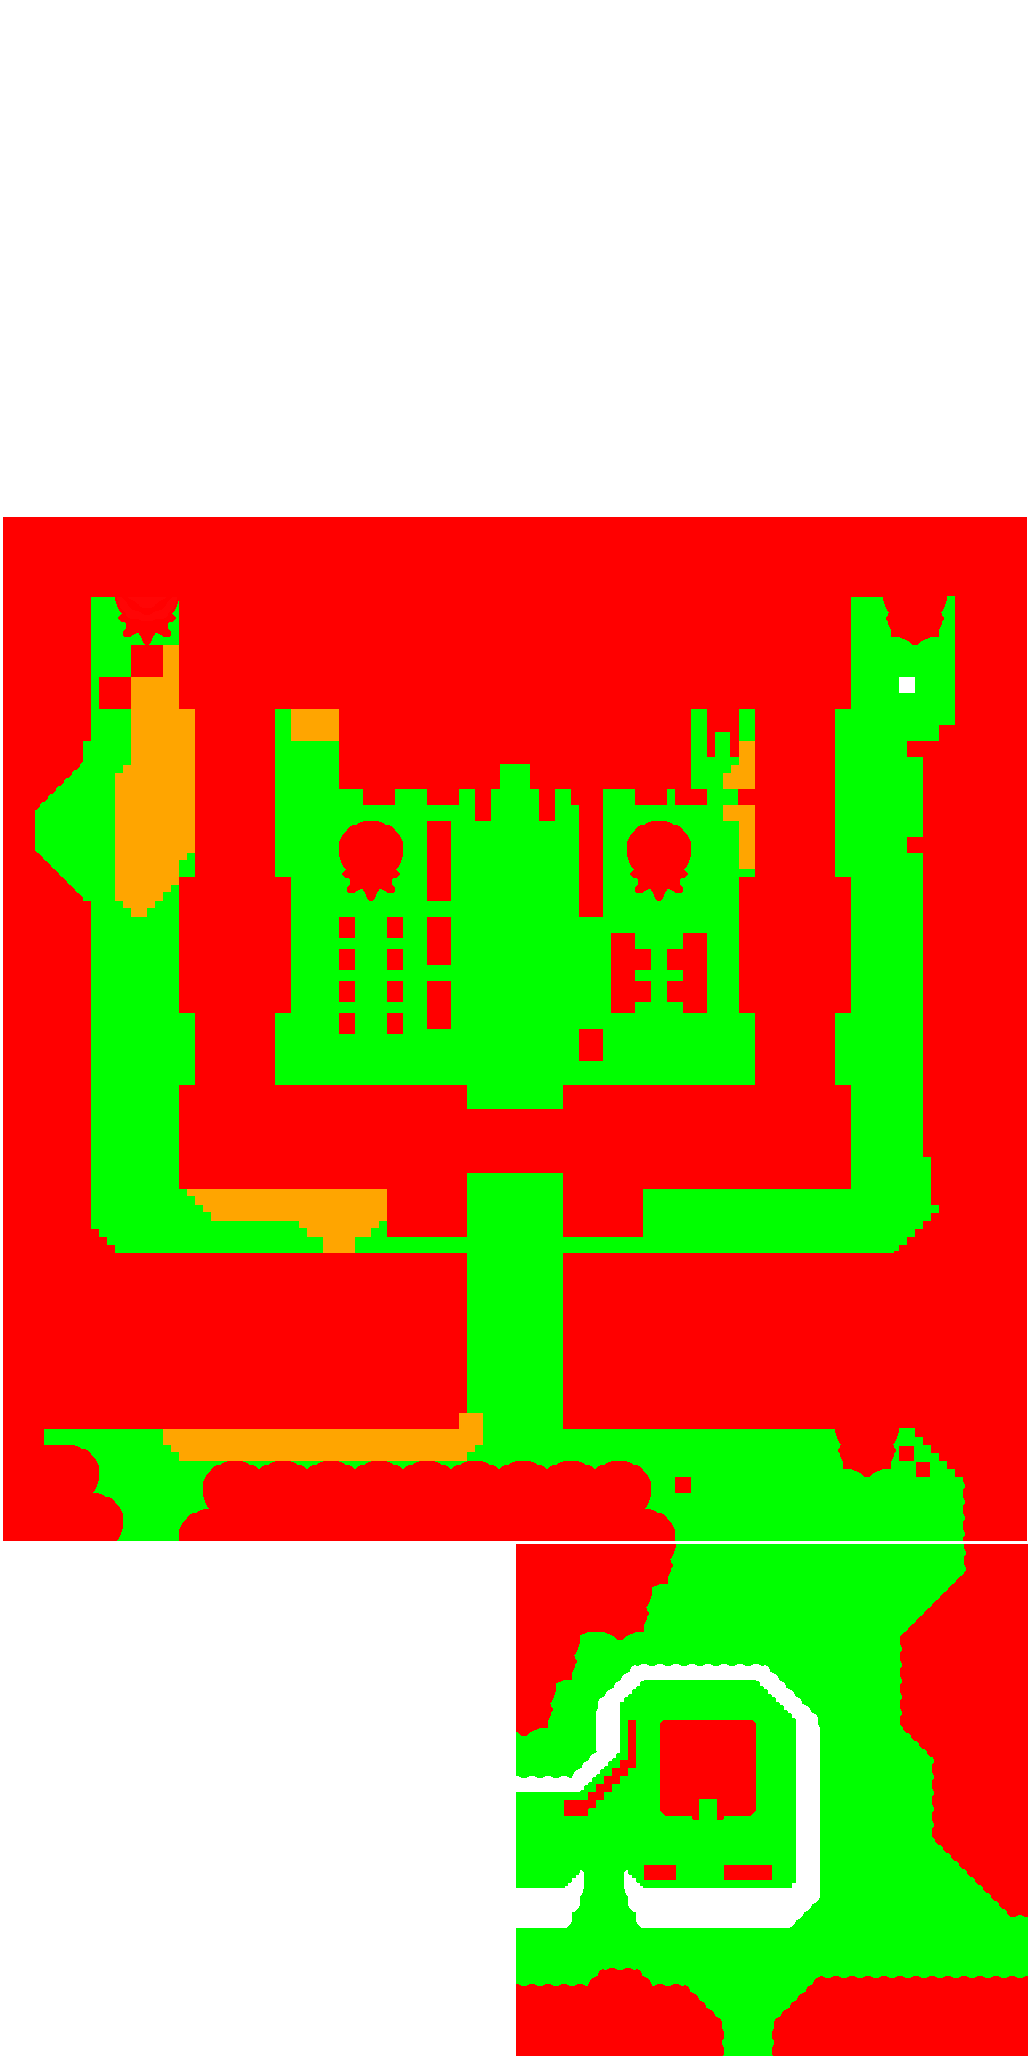
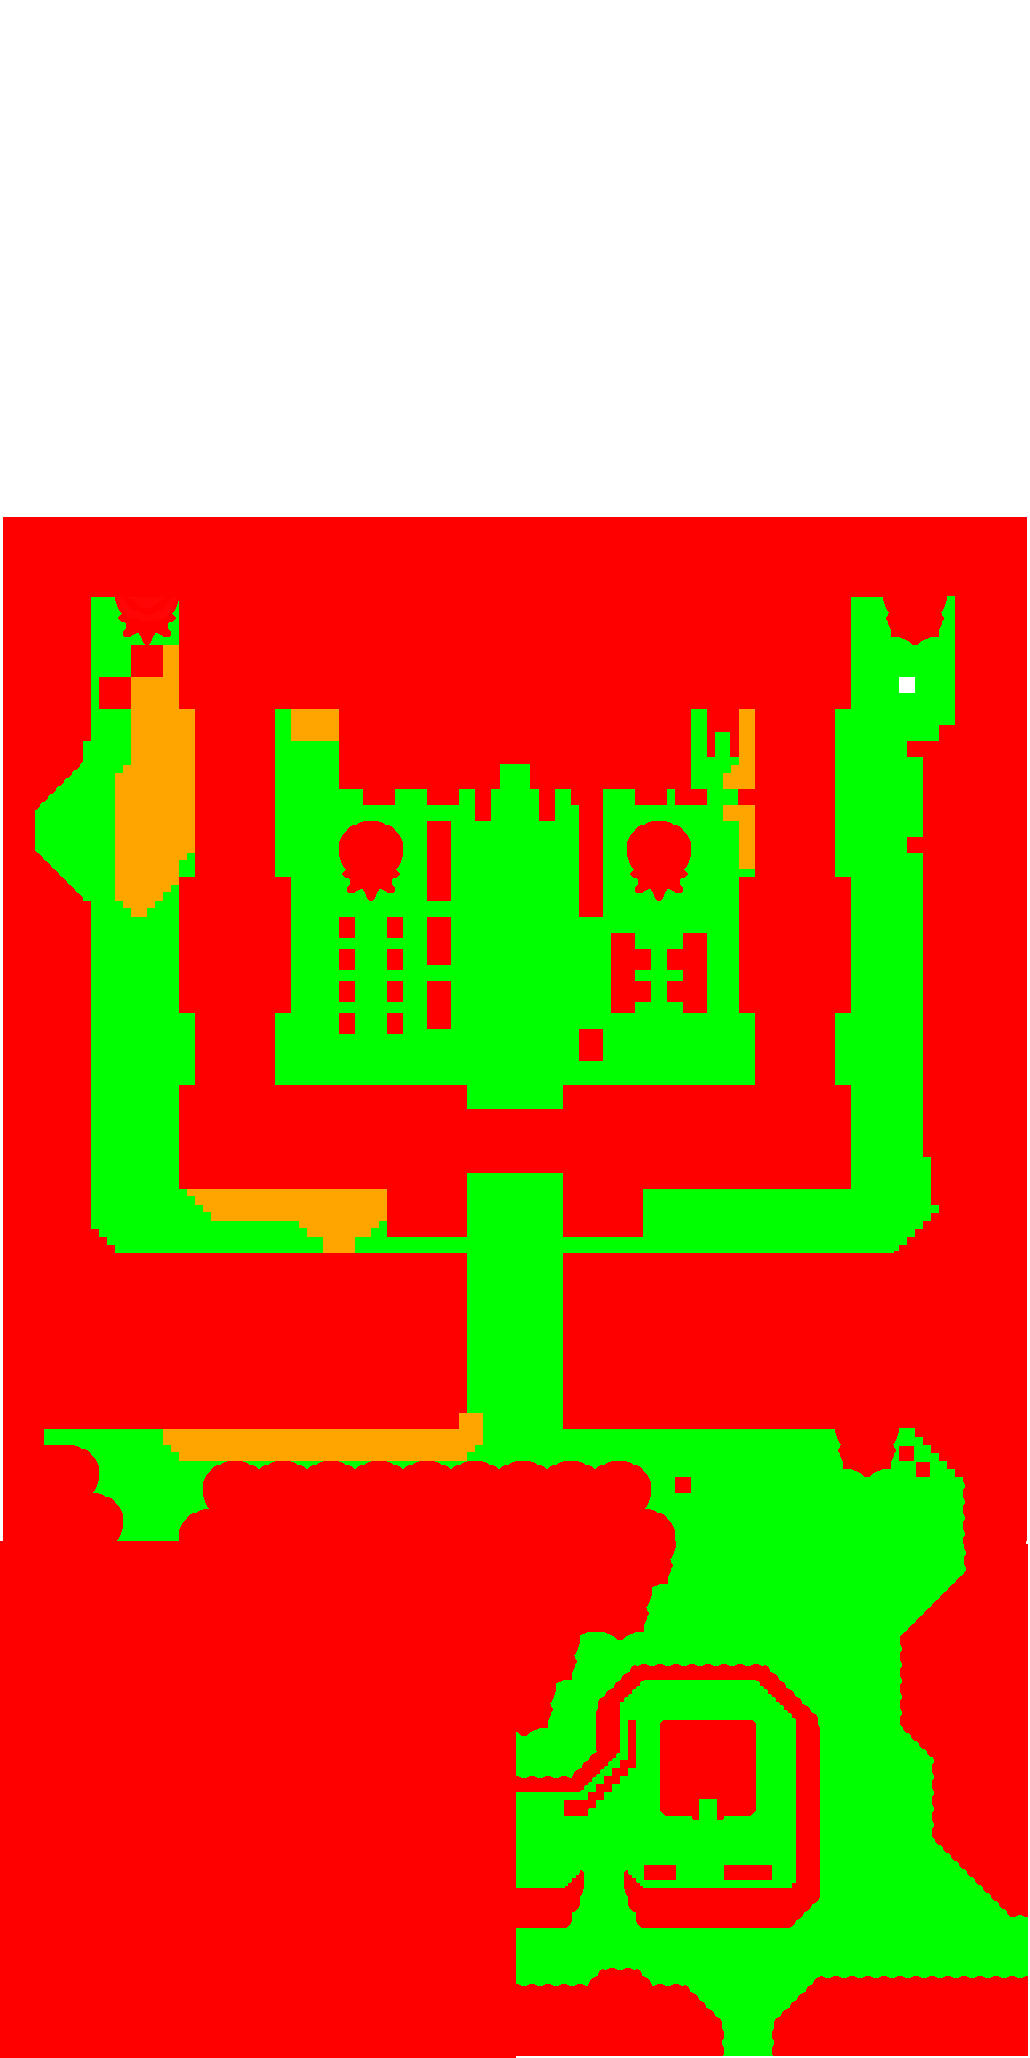
Added monsters entities

Changed region(s): [[0.0, 0.7464, 0.8078, 1.0], [0.7146, 0.3421, 0.7456, 0.3732]]

diff --git a/scenes/test/lib/init_mob.c b/scenes/test/lib/init_mob.c
@@ -1,0 +1,48 @@
+#include "init_mob.h"
+
+#include "../state.h"
+#include "../decorator.h"
+
+#include "../../../generated_code/origins.h"
+#include "../../../generated_code/rects.h"
+
+#include "../../../mobs/mob.h"
+
+#include "../../../include/sfml_helpers.h"
+#include "../../../include/debug.h"
+
+#include "../../../scenes/lib/animation.h"
+
+const char MONSTER_PATH[] = "assets/monster.png";
+
+sfVector2f mob_rel_position(sfVector2f map_pos, sfVector2f abs_pos, float zoom)
+{
+    return (vec_create(zoom * abs_pos.x - map_pos.x, zoom * abs_pos.y - map_pos.y));
+}
+
+int DECORATE(mobs_init)(DECORATE(state) *state)
+{
+    state->my_map.m.mobs = overworld_mobs;
+    mob *mobs = state->my_map.m.mobs;
+
+    for (int i = 0; mobs[i].type != NUL_MOB; i++) {
+        sfVector2f rel = mob_rel_position(state->my_map.m.pos, mobs[i].abs_pos, state->zoom_level);
+        m_animation_init(&mobs[i].ani, state->zoom_level, MONSTER_PATH, rel, monster_bk_down_idle, vec_create(10, 10), vec_create(10, -10));
+        switch (mobs[i].type) {
+            case GREEN_KNIGHT : m_animation_set_rects(&mobs[i].ani, monster_gk_down_idle);
+                break;
+            case BLUE_KNIGHT : m_animation_set_rects(&mobs[i].ani, monster_bk_down_idle);
+                break;
+            case YELLOW_KNIGHT : m_animation_set_rects(&mobs[i].ani, monster_yk_down_idle);
+                break;
+            case MOUSE : m_animation_set_rects(&mobs[i].ani, monster_mouse_down_idle);
+                break;
+            case SERPENT : m_animation_set_rects(&mobs[i].ani, monster_serpent_down_idle);
+                break;
+            case TROOPER : m_animation_set_rects(&mobs[i].ani, monster_trooper_down_idle);
+                break;
+            default : m_animation_set_rects(&mobs[i].ani, monster_crab_idle);
+                break;
+        }
+    }
+}

diff --git a/scenes/test/init.c b/scenes/test/init.c
@@ -12,6 +12,8 @@
 #include "../../generated_code/origins.h"
 #include "../../generated_code/rects.h"
 
+#include "lib/init_mob.h"
+
 const char LINK_PATH[] = "assets/link.gif";
 const char MAP_PATH[] = "assets/maps/links_house.png";
 const char MAP_COLOR_PATH[] = "maps_hitboxes/links_house.png";
@@ -50,7 +52,7 @@ void *DECORATE(init)(global_state *game_state)
         scene_state.height = h;
 
         if (DECORATE(link_init)(&scene_state, w, h) < 0 ||
-            DECORATE(house_init)(&scene_state) < 0)
+            DECORATE(house_init)(&scene_state) < 0 || DECORATE(mobs_init)(&scene_state) < 0)
             return (NULL);
 
         run_once = 1;

diff --git a/scenes/test/update.c b/scenes/test/update.c
@@ -12,14 +12,22 @@
 #include "../lib/map.h"
 #include "../lib/helpers.h"
 
+#include "../../mobs/mob.h"
+#include "lib/update_mob.h"
+
 int DECORATE(update)(void *data)
 {
     DECORATE(state) *state = data;
 
     house *hous = &state->my_map;
     link *lnk = &state->my_link;
+    mob *mobs = state->my_map.m.mobs;
 
     animation_update(&lnk->ani, 30);
+
+    for (int i = 0; mobs[i].type != NUL_MOB; i++) {
+        animation_update(&mobs[i].ani, 100);
+    }
 
     sfVector2f save;
     map_move(&hous->m, lnk->is_running, lnk->diagonals, &save);

diff --git a/mobs/mob.h b/mobs/mob.h
@@ -1,0 +1,37 @@
+#ifndef MOB_H_
+#define MOB_H_
+
+#include <SFML/Graphics.h>
+
+#include "../scenes/lib/animation.h"
+
+enum {
+    BLUE_KNIGHT,
+    GREEN_KNIGHT,
+    YELLOW_KNIGHT,
+    TROOPER,
+    MOUSE,
+    SERPENT,
+    CRAB,
+    NUL_MOB
+};
+
+typedef struct {
+    animation ani;
+
+    int type;
+
+    int direction;
+    int is_walking;
+    int is_alive;
+    int is_aggro;
+
+    sfVector2f abs_pos;
+    sfVector2f rel_pos;
+
+    int room_id;
+} mob;
+
+mob overworld_mobs[4];
+
+#endif

diff --git a/scenes/test/draw.c b/scenes/test/draw.c
@@ -2,13 +2,21 @@
 
 #include "decorator.h"
 #include "state.h"
+#include "lib/draw_mob.h"
+
+#include "../../mobs/mob.h"
 
 int DECORATE(draw)(void *data, sfRenderWindow *win)
 {
     DECORATE(state) *state = data;
+    mob *mobs = state->my_map.m.mobs;
 
     map_draw(&state->my_map.m, win, NULL);
     animation_draw(&state->my_link.ani, win, NULL);
+
+    for (int i = 0; mobs[i].type != NUL_MOB; i++) {
+        mob_draw(&state->my_map.m.mobs[i], win, NULL);
+    }
 
     return (0);
 }

diff --git a/mobs/mob.c b/mobs/mob.c
@@ -1,0 +1,12 @@
+#include <SFML/Graphics.h>
+
+#include "mob.h"
+
+#include "../include/sfml_helpers.h"
+
+mob overworld_mobs[4] = {
+    { .type = GREEN_KNIGHT, .abs_pos = vec_create(100, 100)},
+    { .type = GREEN_KNIGHT, .abs_pos = vec_create(50, 50)},
+    { .type = GREEN_KNIGHT, .abs_pos = vec_create(150, 150)},
+    { .type = NUL_MOB}
+};

diff --git a/scenes/lib/map.h b/scenes/lib/map.h
@@ -3,6 +3,8 @@
 
 #include <SFML/Graphics.h>
 
+#include "../../mobs/mob.h"
+
 /*
 ** You may only *touch* the following members:
 **     - speed_factor (default value is 0.360) you can increase it to make the
@@ -25,6 +27,9 @@ typedef struct {
     sfVector2f pos;
 
     sfClock *clocks[5];
+
+    mob *mobs;
+
 } map;
 
 /*

diff --git a/scenes/test/lib/draw_mob.c b/scenes/test/lib/draw_mob.c
@@ -1,0 +1,10 @@
+#include "draw_mob.h"
+
+void mob_draw(mob *mob, sfRenderWindow *win, sfRenderStates *states)
+{
+    sfRenderWindow_drawSprite(win, mob->ani.sprite, states);
+
+#ifndef NDEBUG
+    sfRenderWindow_drawRectangleShape(win, mob->ani.hitbox, NULL);
+#endif
+}

diff --git a/scenes/test/lib/draw_mob.h b/scenes/test/lib/draw_mob.h
@@ -1,0 +1,9 @@
+#ifndef DRAW_MOB_H_
+#define DRAW_MOB_H_
+
+#include <SFML/Graphics.h>
+#include "../../../mobs/mob.h"
+
+void mob_draw(mob *mob, sfRenderWindow *win, sfRenderStates *states);
+
+#endif /* !DRAW_MOB_H_ */

diff --git a/scenes/test/lib/update_mob.c b/scenes/test/lib/update_mob.c
@@ -1,0 +1,10 @@
+#include "update_mob.h"
+
+#include <SFML/Graphics.h>
+
+#include "../../../mobs/mob.h"
+
+void mob_update(mob *mobs)
+{
+    animation_update(&mobs->ani, 30);
+}

diff --git a/scenes/test/lib/update_mob.h b/scenes/test/lib/update_mob.h
@@ -1,0 +1,8 @@
+#ifndef UPDATE_MOB_H_
+#define UPDATE_MOB_H_
+
+#include "../../../mobs/mob.h"
+
+void mob_update(mob *mobs);
+
+#endif /* !UPDATE_MOB_H_ */

diff --git a/scenes/test/lib/init_mob.h b/scenes/test/lib/init_mob.h
@@ -1,0 +1,6 @@
+#ifndef INIT_MOB_H_
+#define INIT_MOB_H_
+
+#include <SFML/Graphics.h>
+
+#endif /* !INIT_MOB_H_ */
